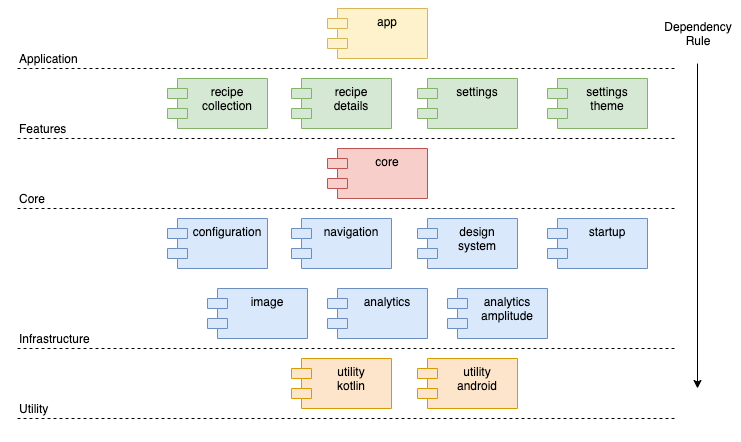
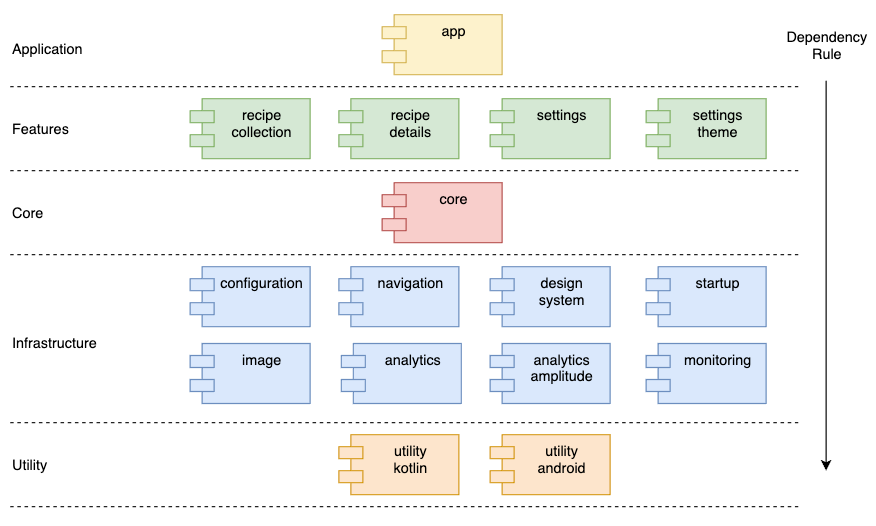
Updating readme with Monitoring section (#20)
## Context
- Including Analytics + Monitoring section
- Updating modules images

diff --git a/README.md b/README.md
@@ -21,6 +21,7 @@ This project is intended to be a case that prioritize a scalable architecture, f
 - Koin
 - Retrofit
 - Moshi
+- Timber
 - Gradle Groovy
 - Github actions
 
@@ -67,7 +68,7 @@ The picture shows the current modules and how they are structured.
 1. **App** - Glue all modules and it has project configurations like build variants, API keys.
 2. **Feature** - Product features are developed at this level of modules. For this project I have modules:screen 1:1 but it may vary a lot.
 3. **Core** - Here I have modules that are not tied to a specific feature scope but the entire app like Base Classes when needed (I am pretty confident that I keep this layer really small).
-4. **Infrastructure** - Modules that compose the foundation of the project. Here we have networking, monitoring, analytics, design-system, navigation.
+4. **Infrastructure** - Modules that compose the foundation of the project. Configuration, navigation, analytics, design-system...
 4. **Utility** - Helpers and extensions classes goes here. But only the ones that are not related to business of the project and it can be reused by other projects.
 
 ## Code
@@ -81,13 +82,14 @@ The picture shows the current modules and how they are structured.
 ### Classes naming convention
 //TODO
 
-## Tooling
+## Analytics + Monitoring
 
-### Crash report
-//TODO
+### Crash report and logs
+Currently I'm using [Sentry](https://sentry.io) for crash report and [Timber](https://github.com/JakeWharton/timber) as log abstraction layer.
+Monitoring must be the first thing to initialize!
 
-### Event report
-//TODO
+### Event analytics
+The module `analytics` is an abstraction for event report. We currently rely on Amplitude platform to send and analyse user/application behaviour.
 
 ## Build Config
 
